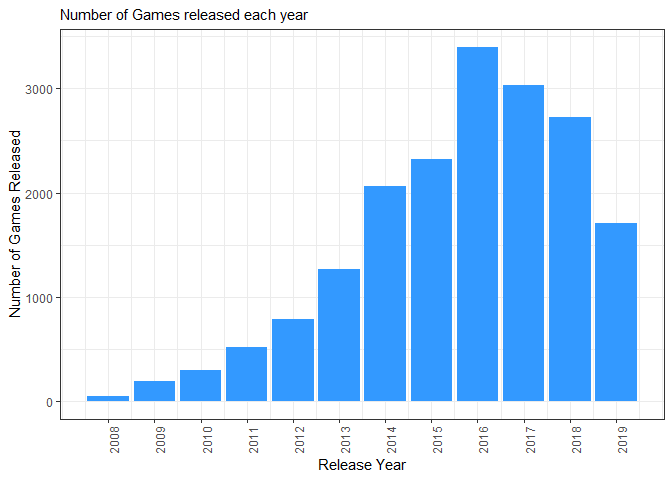
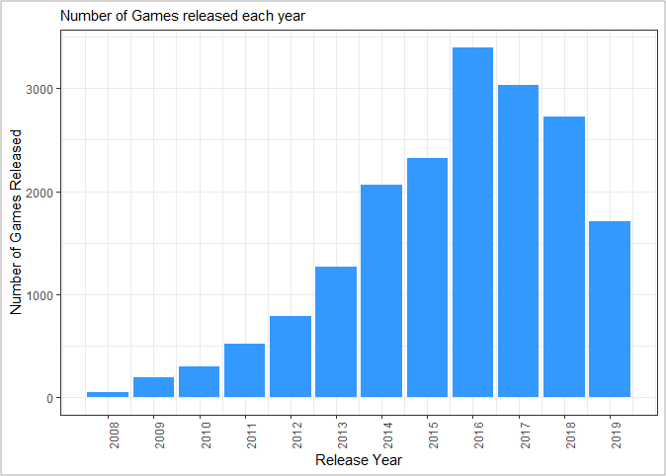
borders to plot images

diff --git a/_pages/about.md b/_pages/about.md
@@ -8,7 +8,7 @@ permalink: /about/
 
 
 
-My name is __Jordan JunSu Ku__ and I am a recent graduate at __University of Waterloo, Bachelor of Mathematics with
+My name is __Jordan JunSu Ku__ and I am a recent graduate of __University of Waterloo, Bachelor of Mathematics with
 major in Statistics__.
 
 My data analysis experience began with statistical computing in __*R*__. I am very familiar with R Studio and data handling packages such as __*tidyverse, ggplot2, plotly*__ and __*car*__. I am also experienced with building interactive applications with __*shiny and leaflet*__ to visualize and communicate data.
